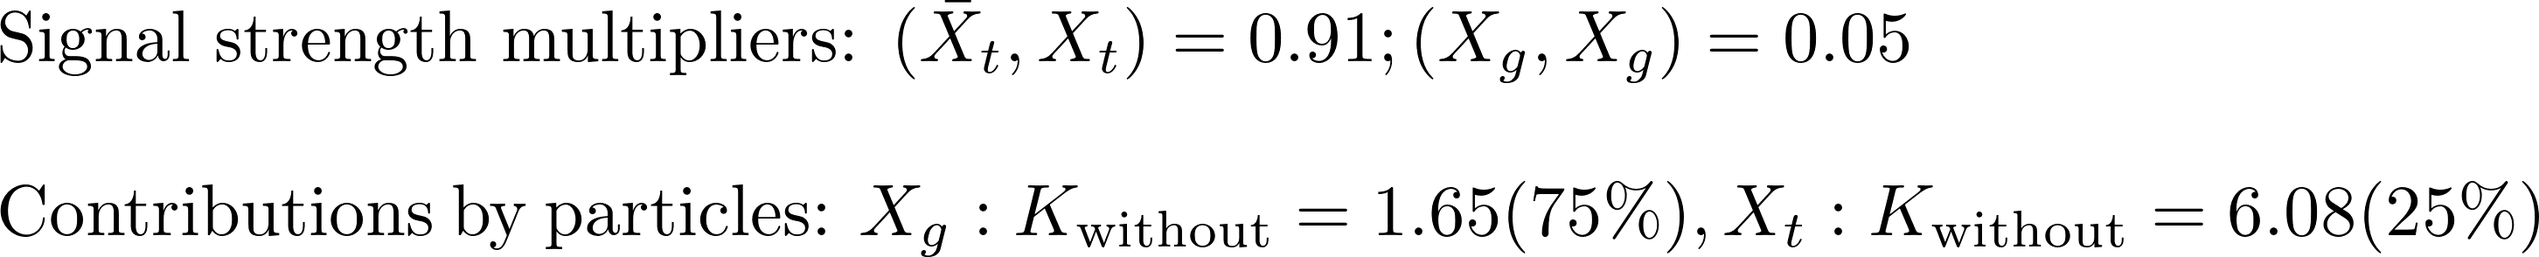
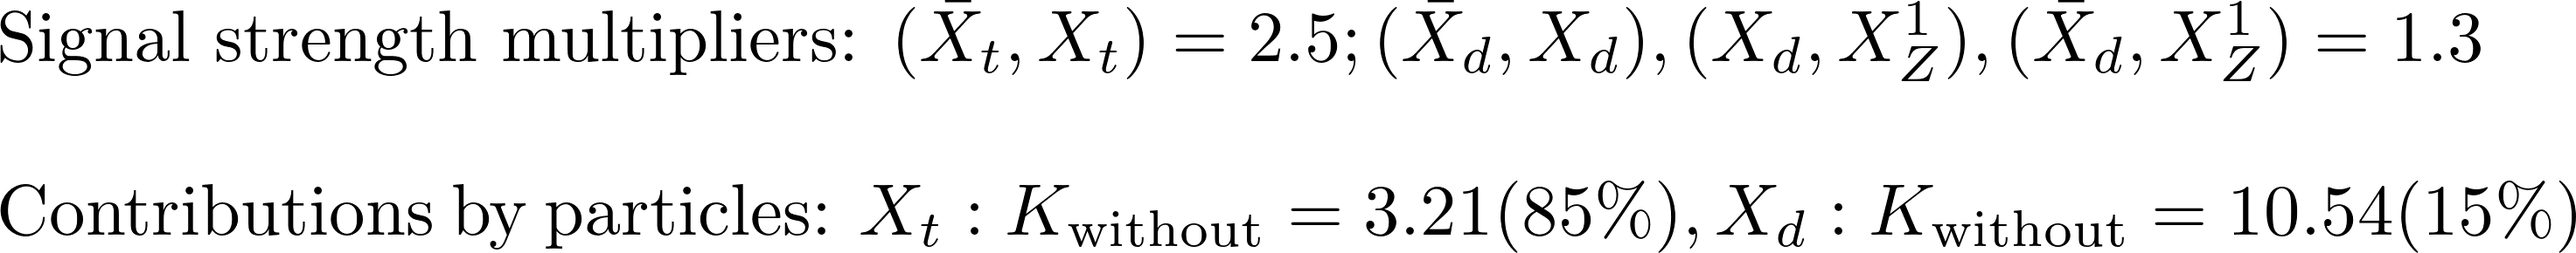
automated update by plotHiscore.py to /scratch-cbe/users/wolfgan.waltenberger/git/smodels.github.io/protomodels

diff --git a/protomodels/2020_PioneerStudy/closure_sampled3/index.html b/protomodels/2020_PioneerStudy/closure_sampled3/index.html
@@ -1,30 +1,31 @@
 <html>
 <body>
 <center>
-<table><td><h1>Current best protomodel: <i>K</i>=8.24</h1><td><img height=60px src=https://smodels.github.io/pics/banner.png></table>
+<table><td><h1>Current best protomodel: <i>K</i>=12.08</h1><td><img height=60px src=https://smodels.github.io/pics/banner.png></table>
 </center>
-<b><a href=./hiscore.slha>ProtoModel</a> <a href=./pmodel.py>(dict)</a> produced with <a href=https://smodels.github.io/docs/Validation124scaled3>database v1.2.4scaled3</a>, combination strategy <a href=./matrix_aggressive.png>aggressive</a> in walker 27 step 628.</b> <i>K</i> plots for: <a href=./M1000022.png?15050286>X<sub>Z</sub><sup>1</sup></a>, <a href=./M1000006.png?15050286>X<sub>t</sub></a>, <a href=./M1000021.png?15050286>X<sub>g</sub></a>. HPD plots for: <a href=./llhd1000006.png?15050286>X<sub>t</sub></a>, <a href=./llhd1000021.png?15050286>X<sub>g</sub></a>. SSM plots for: <a href=./ssm_1000021_1000021.png?15050286>(X<sub>g</sub>,X<sub>g</sub>)</a>, <a href=./ssm_-1000006_1000006.png?15050286>(x&#772;<sub>t</sub>,X<sub>t</sub>)</a><br>
+<b><a href=./hiscore.slha>ProtoModel</a> <a href=./pmodel.py>(dict)</a> produced with <a href=https://smodels.github.io/docs/Validation124scaled3>database v1.2.4scaled3</a>, combination strategy <a href=./matrix_aggressive.png>aggressive</a> in walker 33 step 800.</b> <i>K</i> plots for: <a href=./M1000022.png?15309876>X<sub>Z</sub><sup>1</sup></a>, <a href=./M1000006.png?15309876>X<sub>t</sub></a>, <a href=./M1000001.png?15309876>X<sub>d</sub></a>. HPD plots for: <a href=./llhd1000006.png?15309876>X<sub>t</sub></a>, <a href=./llhd1000001.png?15309876>X<sub>d</sub></a>. SSM plots for: <a href=./ssm_-1000006_1000006.png?15309876>(x&#772;<sub>t</sub>,X<sub>t</sub>)</a><br>
 <table width=80%>
 <tr><td>
-<br><b>43 predictions available. Highest r values are:</b><br><ul>
-<li><a href=http://cms-results.web.cern.ch/cms-results/public-results/publications/SUS-16-033/index.html>CMS-SUS-16-033</a>:T1,TGQ,T1tttt,T2,T1bbbb,T2tt r=1.30, r<sub>exp</sub>=1.40<br>
-<li><a href=http://cms-results.web.cern.ch/cms-results/public-results/publications/SUS-19-006/index.html>CMS-SUS-19-006</a>:T2tt r=1.23, r<sub>exp</sub>=1.18<br>
-<li><a href=https://atlas.web.cern.ch/Atlas/GROUPS/PHYSICS/PAPERS/SUSY-2016-07/>ATLAS-SUSY-2016-07</a>:T2,T1,TGQ r=1.23, r<sub>exp</sub>=1.59<br>
-<li><a href=https://twiki.cern.ch/twiki/bin/view/CMSPublic/PhysicsResultsSUS13019>CMS-SUS-13-019</a>:T1bbbb r=1.21, r<sub>exp</sub>=N/A<br>
-<li><a href=https://twiki.cern.ch/twiki/bin/view/CMSPublic/PhysicsResultsSUS12028>CMS-SUS-12-028</a>:T1bbbb r=0.86, r<sub>exp</sub>=0.55<br>
+<br><b>24 predictions available. Highest r values are:</b><br><ul>
+<li><a href=http://cms-results.web.cern.ch/cms-results/public-results/publications/SUS-19-006/index.html>CMS-SUS-19-006</a>:T2tt r=0.98, r<sub>exp</sub>=N/A<br>
+<li><a href=http://cms-results.web.cern.ch/cms-results/public-results/publications/SUS-16-050/index.html>CMS-SUS-16-050</a>:T2tt r=0.90, r<sub>exp</sub>=N/A<br>
+<li><a href=http://cms-results.web.cern.ch/cms-results/public-results/publications/SUS-16-049/index.html>CMS-SUS-16-049</a>:T2tt r=0.88, r<sub>exp</sub>=N/A<br>
+<li><a href=http://cms-results.web.cern.ch/cms-results/public-results/publications/SUS-16-033/index.html>CMS-SUS-16-033</a>:T2tt r=0.75, r<sub>exp</sub>=N/A<br>
+<li><a href=http://cms-results.web.cern.ch/cms-results/public-results/publications/SUS-16-036/index.html>CMS-SUS-16-036</a>:T2tt r=0.71, r<sub>exp</sub>=N/A<br>
 </ul>
 <td><br><b>K values without analyses: (contribution)</b><br>
 <ul>
-<li> <a href=http://atlas.web.cern.ch/Atlas/GROUPS/PHYSICS/PAPERS/SUSY-2015-06/>ATLAS-SUSY-2015-06</a>: 9.86 (-21%)
-<li> <a href=https://twiki.cern.ch/twiki/bin/view/CMSPublic/PhysicsResultsSUS13007>CMS-SUS-13-007</a>: 9.42 (-15%)
-<li> <a href=http://cms-results.web.cern.ch/cms-results/public-results/publications/SUS-16-033/index.html>CMS-SUS-16-033</a>: 7.15 (14%)
-<li> <a href=https://atlas.web.cern.ch/Atlas/GROUPS/PHYSICS/PAPERS/SUSY-2016-16/>ATLAS-SUSY-2016-16</a>: 5.70 (32%)
-<li> <a href=https://atlas.web.cern.ch/Atlas/GROUPS/PHYSICS/PAPERS/SUSY-2013-18/>ATLAS-SUSY-2013-18</a>: 1.24 (89%)
-<td><img width=600px src=./texdoc.png?1608050286>
-<br><font size=-1>Last updated: Tue Dec 15 17:38:06 2020</font>
+<li> <a href=http://atlas.web.cern.ch/Atlas/GROUPS/PHYSICS/PAPERS/SUSY-2015-06/>ATLAS-SUSY-2015-06</a>: 4.83 (14%)
+<li> <a href=https://atlas.web.cern.ch/Atlas/GROUPS/PHYSICS/PAPERS/SUSY-2013-02/>ATLAS-SUSY-2013-02</a>: 4.58 (14%)
+<li> <a href=http://cms-results.web.cern.ch/cms-results/public-results/publications/SUS-16-051/index.html>CMS-SUS-16-051</a>: 4.54 (14%)
+<li> <a href=https://twiki.cern.ch/twiki/bin/view/CMSPublic/PhysicsResultsSUS13012>CMS-SUS-13-012</a>: 4.54 (14%)
+<li> <a href=http://cms-results.web.cern.ch/cms-results/public-results/publications/SUS-16-036/index.html>CMS-SUS-16-036</a>: 4.54 (14%)
+<li> <a href=https://atlas.web.cern.ch/Atlas/GROUPS/PHYSICS/PAPERS/SUSY-2016-16/>ATLAS-SUSY-2016-16</a>: -3.55 (29%)
+<td><img width=600px src=./texdoc.png?1608309876>
+<br><font size=-1>Last updated: Fri Dec 18 17:44:36 2020</font>
 </table><table style="width:80%">
-<td width=45%><img height=580px src=./ruler.png?1608050286><td width=55%><img height=380px src=./decays.png?1608050286>
-<font size=-3><iframe type="text/html" height="220px" width="100%s" frameborder="0" src="./rawnumbers.html?1608050286"></iframe></font>
+<td width=45%><img height=580px src=./ruler.png?1608309876><td width=55%><img height=380px src=./decays.png?1608309876>
+<font size=-3><iframe type="text/html" height="220px" width="100%s" frameborder="0" src="./rawnumbers.html?1608309876"></iframe></font>
 </table>
 </body>
 </html>

diff --git a/protomodels/2020_PioneerStudy/closure_sampled3/rawnumbers.html b/protomodels/2020_PioneerStudy/closure_sampled3/rawnumbers.html
@@ -1,9 +1,10 @@
 <table>
 <tr><th>Analysis Name</th><th>Type</th><th>Dataset</th><th>Topos</th><th>Observed</th><th>Expected</th><th>Approx &sigma;</th><th>Particles</th><th>Signal</th>
 </tr>
-<tr><td><a href=https://atlas.web.cern.ch/Atlas/GROUPS/PHYSICS/PAPERS/SUSY-2013-18/>ATLAS-SUSY-2013-18</a></td><td>em</td> <td>SR-0l-4j-B</td><td>T1bbbb</td><td>8</td><td>1.3 +/- 0.9</td><td style="text-align:right">4.6 &sigma;</td><td style="text-align:right">X<sub>g</sub></td><td style="text-align:right">-</td></tr>
-<tr><td><a href=http://atlas.web.cern.ch/Atlas/GROUPS/PHYSICS/PAPERS/SUSY-2015-06/>ATLAS-SUSY-2015-06</a></td><td>em</td> <td>SR4jt</td><td>T1, T2</td><td>3</td><td>4.1 +/- 1.1</td><td style="text-align:right">-0.5 &sigma;</td><td style="text-align:right">X<sub>g</sub></td><td style="text-align:right">0</td></tr>
-<tr><td><a href=https://atlas.web.cern.ch/Atlas/GROUPS/PHYSICS/PAPERS/SUSY-2016-16/>ATLAS-SUSY-2016-16</a></td><td>em</td> <td>tN_high</td><td>T2tt</td><td>9</td><td>3.8 +/- 1</td><td style="text-align:right">2.4 &sigma;</td><td style="text-align:right">X<sub>t</sub></td><td style="text-align:right">7</td></tr>
-<tr><td><a href=https://twiki.cern.ch/twiki/bin/view/CMSPublic/PhysicsResultsSUS13007>CMS-SUS-13-007</a></td><td>em</td> <td>el250Nb2</td><td>T1tttt</td><td>10</td><td>3.8 +/- 1.89</td><td style="text-align:right">2.3 &sigma;</td><td style="text-align:right">X<sub>g</sub></td><td style="text-align:right">-</td></tr>
-<tr><td><a href=http://cms-results.web.cern.ch/cms-results/public-results/publications/SUS-16-033/index.html>CMS-SUS-16-033</a></td><td>em</td> <td>SR3_Njet5_Nb0_H ...</td><td>T1, T1bbbb, T1tttt, T2, T2tt, TGQ</td><td>917</td><td>806 +/- 57</td><td style="text-align:right">1.7 &sigma;</td><td style="text-align:right">X<sub>g</sub>, X<sub>t</sub></td><td style="text-align:right">56</td></tr>
+<tr><td><a href=https://atlas.web.cern.ch/Atlas/GROUPS/PHYSICS/PAPERS/SUSY-2013-02/>ATLAS-SUSY-2013-02</a></td><td>em</td> <td>SR6jtp</td><td>T2</td><td>4</td><td>4.9 +/- 1.6</td><td style="text-align:right">-0.3 &sigma;</td><td style="text-align:right">X<sub>d</sub></td><td style="text-align:right">0</td></tr>
+<tr><td><a href=http://atlas.web.cern.ch/Atlas/GROUPS/PHYSICS/PAPERS/SUSY-2015-06/>ATLAS-SUSY-2015-06</a></td><td>em</td> <td>SR4jt</td><td>T2</td><td>3</td><td>4.1 +/- 1.1</td><td style="text-align:right">-0.5 &sigma;</td><td style="text-align:right">X<sub>d</sub></td><td style="text-align:right">0</td></tr>
+<tr><td><a href=https://atlas.web.cern.ch/Atlas/GROUPS/PHYSICS/PAPERS/SUSY-2016-16/>ATLAS-SUSY-2016-16</a></td><td>em</td> <td>tN_high</td><td>T2tt</td><td>12</td><td>3.8 +/- 1</td><td style="text-align:right">3.7 &sigma;</td><td style="text-align:right">X<sub>t</sub></td><td style="text-align:right">8</td></tr>
+<tr><td><a href=https://twiki.cern.ch/twiki/bin/view/CMSPublic/PhysicsResultsSUS13012>CMS-SUS-13-012</a></td><td>ul</td> <td>-</td><td>T2</td><td> 8.9 fb </td><td> 6.2 fb</td><td style="text-align:right">0.8 &sigma;</td><td style="text-align:right">X<sub>d</sub></td><td style="text-align:right">2.66 fb</td></tr>
+<tr><td><a href=http://cms-results.web.cern.ch/cms-results/public-results/publications/SUS-16-036/index.html>CMS-SUS-16-036</a></td><td>ul</td> <td>-</td><td>T2</td><td> 32.9 fb </td><td> 8.9 fb</td><td style="text-align:right">5.2 &sigma;</td><td style="text-align:right">X<sub>d</sub></td><td style="text-align:right">23.95 fb</td></tr>
+<tr><td><a href=http://cms-results.web.cern.ch/cms-results/public-results/publications/SUS-16-051/index.html>CMS-SUS-16-051</a></td><td>ul</td> <td>-</td><td>T2tt</td><td> 6.9 fb </td><td> 4.2 fb</td><td style="text-align:right">1.2 &sigma;</td><td style="text-align:right">X<sub>t</sub></td><td style="text-align:right">2.62 fb</td></tr>
 </table>

diff --git a/protomodels/2020_PioneerStudy/closure_sampled3/pmodel.py b/protomodels/2020_PioneerStudy/closure_sampled3/pmodel.py
@@ -1,1 +1,1 @@
-{'masses': {1000022: 37.665, 1000021: 592.783, 1000006: 1294.924}, 'ssmultipliers': {(1000022, 1000022): 0.0, (1000021, 1000021): 0.046, (1000021, 1000022): 0.046, (1000006, 1000006): 0.907, (-1000006, 1000006): 0.907, (-1000006, -1000006): 0.907, (1000006, 1000022): 0.907, (-1000006, 1000022): 0.907, (1000006, 1000021): 0.907, (-1000006, 1000021): 0.907}, 'decays': {1000022: {}, 1000021: {(1000022, 6): 0.137, (1000022, 5): 0.388, (1000022, 21): 0.112, (1000022, 1): 0.039, (1000022, 4): 0.324}, 1000006: {(1000022, 6): 1.0}}, 'timestamp': 'Tue Dec 15 17:37:59 2020', 'Z': 3.706, 'K': 8.236, 'walkerid': 27, 'step': 628, 'codever': '1.0', 'dbver': '1.2.4scaled3'}
+{'masses': {1000022: 87.201, 1000001: 972.489, 1000006: 1184.799}, 'ssmultipliers': {(1000022, 1000022): 0.002, (1000001, 1000001): 0.355, (-1000001, 1000001): 1.29, (-1000001, -1000001): 1.29, (1000001, 1000022): 1.304, (-1000001, 1000022): 1.304, (1000006, 1000006): 2.483, (-1000006, 1000006): 2.483, (-1000006, -1000006): 2.483, (1000006, 1000022): 2.493, (-1000006, 1000022): 2.493, (1000001, 1000006): 2.198, (-1000006, 1000001): 2.198, (-1000001, 1000006): 2.198, (-1000006, -1000001): 2.198}, 'decays': {1000022: {}, 1000001: {(1000022, 1): 1.0}, 1000006: {(1000022, 6): 1.0}}, 'timestamp': 'Fri Dec 18 17:44:26 2020', 'Z': 3.953, 'K': 12.077, 'walkerid': 33, 'step': 800, 'codever': '1.0', 'dbver': '1.2.4scaled3'}
